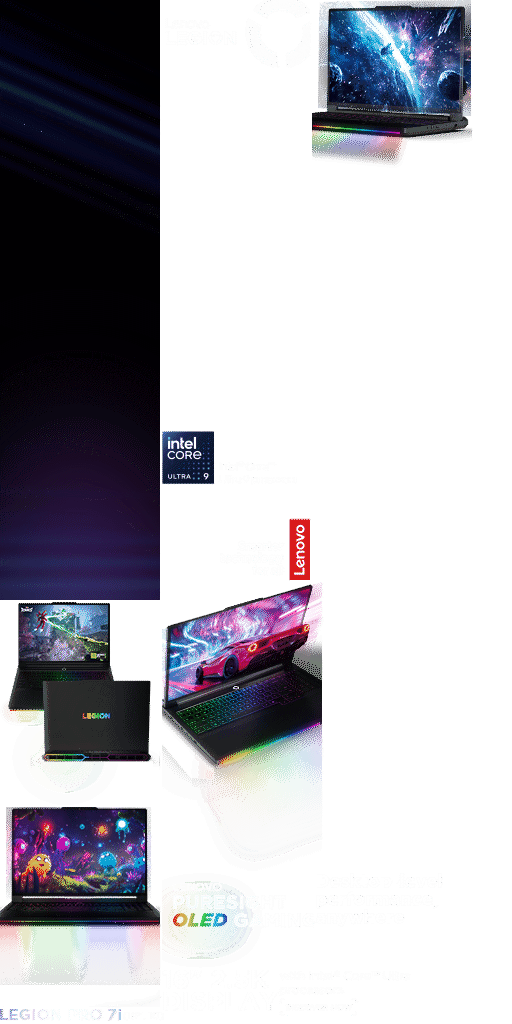
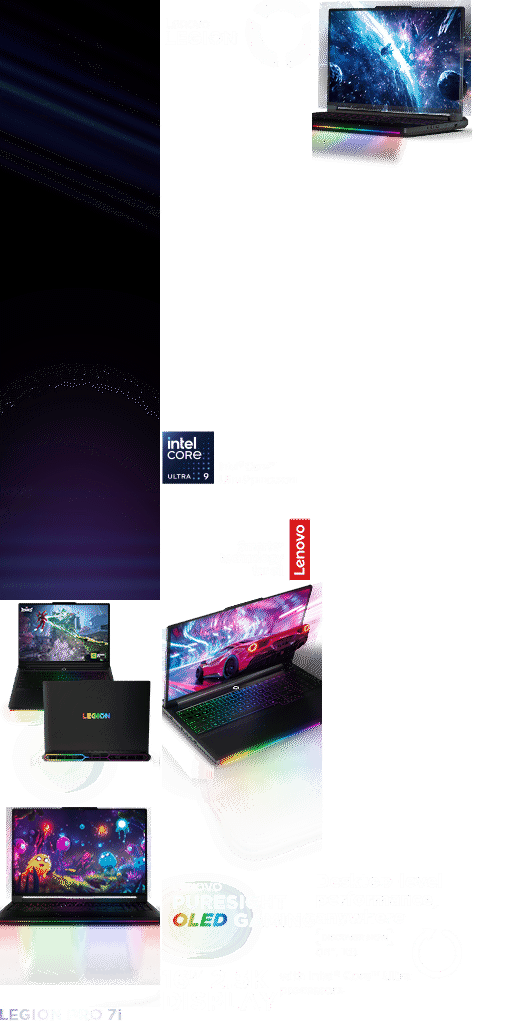
Add files via upload

diff --git a/160x600.js b/160x600.js
@@ -3,7 +3,7 @@
 var p; // shortcut to reference prototypes
 var lib={};var ss={};var img={};
 lib.ssMetadata = [
-		{name:"160x600_atlas_1", frames: [[0,0,160,600],[280,998,77,18],[162,582,160,289],[312,0,160,168],[0,807,160,200],[0,602,160,203],[162,0,148,580],[316,873,126,53],[280,970,130,26],[162,873,152,95],[162,970,116,40],[0,1009,121,11],[123,1012,41,8]]}
+		{name:"160x600_atlas_1", frames: [[412,928,50,50],[0,0,160,600],[316,928,77,18],[162,582,160,289],[312,0,160,168],[0,807,160,200],[0,602,160,203],[162,0,148,580],[316,873,126,53],[280,970,130,26],[162,873,152,95],[162,970,116,40],[0,1009,121,11],[316,948,41,8]]}
 ];
 
 
@@ -27,95 +27,118 @@ lib.ssMetadata = [
 
 
 
-(lib.BG = function() {
+(lib.arrows_w = function() {
 	this.initialize(ss["160x600_atlas_1"]);
 	this.gotoAndStop(0);
 }).prototype = p = new cjs.Sprite();
 
 
 
-(lib.CTA = function() {
+(lib.BG = function() {
 	this.initialize(ss["160x600_atlas_1"]);
 	this.gotoAndStop(1);
 }).prototype = p = new cjs.Sprite();
 
 
 
-(lib.i1 = function() {
+(lib.CTA = function() {
 	this.initialize(ss["160x600_atlas_1"]);
 	this.gotoAndStop(2);
 }).prototype = p = new cjs.Sprite();
 
 
 
-(lib.i2 = function() {
+(lib.i1 = function() {
 	this.initialize(ss["160x600_atlas_1"]);
 	this.gotoAndStop(3);
 }).prototype = p = new cjs.Sprite();
 
 
 
-(lib.i3 = function() {
+(lib.i2 = function() {
 	this.initialize(ss["160x600_atlas_1"]);
 	this.gotoAndStop(4);
 }).prototype = p = new cjs.Sprite();
 
 
 
-(lib.i4 = function() {
+(lib.i3 = function() {
 	this.initialize(ss["160x600_atlas_1"]);
 	this.gotoAndStop(5);
 }).prototype = p = new cjs.Sprite();
 
 
 
-(lib.LOGOs = function() {
+(lib.i4 = function() {
 	this.initialize(ss["160x600_atlas_1"]);
 	this.gotoAndStop(6);
 }).prototype = p = new cjs.Sprite();
 
 
 
-(lib.t11 = function() {
+(lib.LOGOs = function() {
 	this.initialize(ss["160x600_atlas_1"]);
 	this.gotoAndStop(7);
 }).prototype = p = new cjs.Sprite();
 
 
 
-(lib.t12 = function() {
+(lib.t11 = function() {
 	this.initialize(ss["160x600_atlas_1"]);
 	this.gotoAndStop(8);
 }).prototype = p = new cjs.Sprite();
 
 
 
-(lib.t2 = function() {
+(lib.t12 = function() {
 	this.initialize(ss["160x600_atlas_1"]);
 	this.gotoAndStop(9);
 }).prototype = p = new cjs.Sprite();
 
 
 
-(lib.t3 = function() {
+(lib.t2 = function() {
 	this.initialize(ss["160x600_atlas_1"]);
 	this.gotoAndStop(10);
 }).prototype = p = new cjs.Sprite();
 
 
 
-(lib.t41 = function() {
+(lib.t3 = function() {
 	this.initialize(ss["160x600_atlas_1"]);
 	this.gotoAndStop(11);
 }).prototype = p = new cjs.Sprite();
 
 
 
-(lib.t42 = function() {
+(lib.t41 = function() {
 	this.initialize(ss["160x600_atlas_1"]);
 	this.gotoAndStop(12);
 }).prototype = p = new cjs.Sprite();
 
+
+
+(lib.t42 = function() {
+	this.initialize(ss["160x600_atlas_1"]);
+	this.gotoAndStop(13);
+}).prototype = p = new cjs.Sprite();
+// helper functions:
+
+function mc_symbol_clone() {
+	var clone = this._cloneProps(new this.constructor(this.mode, this.startPosition, this.loop, this.reversed));
+	clone.gotoAndStop(this.currentFrame);
+	clone.paused = this.paused;
+	clone.framerate = this.framerate;
+	return clone;
+}
+
+function getMCSymbolPrototype(symbol, nominalBounds, frameBounds) {
+	var prototype = cjs.extend(symbol, cjs.MovieClip);
+	prototype.clone = mc_symbol_clone;
+	prototype.nominalBounds = nominalBounds;
+	prototype.frameBounds = frameBounds;
+	return prototype;
+	}
 
 
 (lib.Tween23 = function(mode,startPosition,loop,reversed) {
@@ -578,6 +601,100 @@ if (reversed == null) { reversed = false; }
 p.nominalBounds = new cjs.Rectangle(-80,-144.5,160,289);
 
 
+(lib.nutreplay = function(mode,startPosition,loop,reversed) {
+if (loop == null) { loop = true; }
+if (reversed == null) { reversed = false; }
+	var props = new Object();
+	props.mode = mode;
+	props.startPosition = startPosition;
+	props.labels = {};
+	props.loop = loop;
+	props.reversed = reversed;
+	cjs.MovieClip.apply(this,[props]);
+
+	// Layer_1
+	this.shape = new cjs.Shape();
+	this.shape.graphics.f("#0066CC").s().p("AhhBiIAAjDIDDAAIAADDg");
+	this.shape.setTransform(9.8,9.8);
+	this.shape._off = true;
+
+	this.timeline.addTween(cjs.Tween.get(this.shape).wait(3).to({_off:false},0).wait(1));
+
+	this._renderFirstFrame();
+
+}).prototype = p = new cjs.MovieClip();
+p.nominalBounds = new cjs.Rectangle(0,0,19.6,19.6);
+
+
+(lib.muitenxoay = function(mode,startPosition,loop,reversed) {
+if (loop == null) { loop = true; }
+if (reversed == null) { reversed = false; }
+	var props = new Object();
+	props.mode = mode;
+	props.startPosition = startPosition;
+	props.labels = {};
+	props.loop = loop;
+	props.reversed = reversed;
+	cjs.MovieClip.apply(this,[props]);
+
+	// Layer_1
+	this.instance = new lib.arrows_w();
+
+	this.timeline.addTween(cjs.Tween.get(this.instance).wait(1));
+
+	this._renderFirstFrame();
+
+}).prototype = getMCSymbolPrototype(lib.muitenxoay, new cjs.Rectangle(0,0,50,50), null);
+
+
+(lib.clickTag_btn = function(mode,startPosition,loop,reversed) {
+if (loop == null) { loop = true; }
+if (reversed == null) { reversed = false; }
+	var props = new Object();
+	props.mode = mode;
+	props.startPosition = startPosition;
+	props.labels = {};
+	props.loop = loop;
+	props.reversed = reversed;
+	cjs.MovieClip.apply(this,[props]);
+
+	// Layer_1
+	this.shape = new cjs.Shape();
+	this.shape.graphics.f("#A2A2A2").s().p("EgXbAu4MAAAhdvMAu3AAAMAAABdvg");
+	this.shape.setTransform(150,300);
+	this.shape._off = true;
+
+	this.timeline.addTween(cjs.Tween.get(this.shape).wait(3).to({_off:false},0).wait(1));
+
+	this._renderFirstFrame();
+
+}).prototype = p = new cjs.MovieClip();
+p.nominalBounds = new cjs.Rectangle(0,0,300,600);
+
+
+(lib.Chamuitenxoay = function(mode,startPosition,loop,reversed) {
+if (loop == null) { loop = true; }
+if (reversed == null) { reversed = false; }
+	var props = new Object();
+	props.mode = mode;
+	props.startPosition = startPosition;
+	props.labels = {};
+	props.loop = loop;
+	props.reversed = reversed;
+	cjs.MovieClip.apply(this,[props]);
+
+	// hinh_mui_ten
+	this.instance = new lib.muitenxoay();
+	this.instance.setTransform(14.55,10.25,0.31,0.31,0,0,0,25,25);
+
+	this.timeline.addTween(cjs.Tween.get(this.instance).to({rotation:-360},12).wait(1));
+
+	this._renderFirstFrame();
+
+}).prototype = p = new cjs.MovieClip();
+p.nominalBounds = new cjs.Rectangle(3.9,-0.4,21.3,21.299999999999997);
+
+
 // stage content:
 (lib._160x600 = function(mode,startPosition,loop,reversed) {
 if (loop == null) { loop = false; }
@@ -589,6 +706,107 @@ if (reversed == null) { reversed = false; }
 	props.loop = loop;
 	props.reversed = reversed;
 	cjs.MovieClip.apply(this,[props]);
+
+	this.actionFrames = [0,246];
+	// timeline functions:
+	this.frame_0 = function() {
+		this.clickTag_btn.addEventListener("click", function() {
+		    window.open(window.clickTag, "_blank");
+		});
+	}
+	this.frame_246 = function() {
+		this.mc_mui_ten_xoay.stop();
+		
+		
+		
+		/* Mouse Over Event
+		Mousing over the symbol instance executes a function in which you can add your own custom code.
+		
+		Instructions:
+		1. Add your custom code on a new line after the line that says "// Start your custom code" below.
+		The code will execute when the symbol instance is moused over.
+		frequency is the number of the times event should be triggered.
+		*/
+		var frequency = 5;
+		stage.enableMouseOver(frequency);
+		this.btn_replay.addEventListener("mouseover", fl_MouseOverHandler.bind(this));
+		
+		function fl_MouseOverHandler()
+		{
+			// Start your custom code
+			// This example code displays the words "Moused over" in the Output panel.
+			this.mc_mui_ten_xoay.play();
+			// End your custom code
+		}
+		
+		
+		
+		/* Mouse Out Event
+		Mousing out of the symbol instance executes a function in which you can add your own custom code.
+		
+		Instructions:
+		1. Add your custom code on a new line after the line that says "// Start your custom code" below.
+		The code will execute when the symbol instance is moused out of.
+		*/
+		var frequency = 5;
+		stage.enableMouseOver(frequency);
+		this.btn_replay.addEventListener("mouseout", fl_MouseOutHandler_4.bind(this));
+		
+		function fl_MouseOutHandler_4()
+		{
+			// Start your custom code
+			// This example code displays the words "Moused out" in the Output panel.
+			this.mc_mui_ten_xoay.gotoAndStop(0);
+			// End your custom code
+		}
+		
+		/* Mouse Click Event
+		Clicking on the specified symbol instance executes a function in which you can add your own custom code.
+		
+		Instructions:
+		1. Add your custom code on a new line after the line that says "// Start your custom code" below.
+		The code will execute when the symbol instance is clicked.
+		*/
+		
+		this.btn_replay.addEventListener("click", fl_MouseClickHandler.bind(this));
+		
+		function fl_MouseClickHandler()
+		{
+			globalThis.notRedirect=true;
+			// Start your custom code
+			// This example code displays the words "Mouse clicked" in the Output panel.
+			this.gotoAndPlay(0);
+			// End your custom code
+		}
+	}
+
+	// actions tween:
+	this.timeline.addTween(cjs.Tween.get(this).call(this.frame_0).wait(246).call(this.frame_246).wait(27));
+
+	// nut_replay
+	this.btn_replay = new lib.nutreplay();
+	this.btn_replay.name = "btn_replay";
+	this.btn_replay.setTransform(9.8,9.8,1,1,0,0,0,9.8,9.8);
+	this.btn_replay._off = true;
+	new cjs.ButtonHelper(this.btn_replay, 0, 1, 2, false, new lib.nutreplay(), 3);
+
+	this.timeline.addTween(cjs.Tween.get(this.btn_replay).wait(241).to({_off:false},0).wait(32));
+
+	// mui_ten
+	this.mc_mui_ten_xoay = new lib.Chamuitenxoay();
+	this.mc_mui_ten_xoay.name = "mc_mui_ten_xoay";
+	this.mc_mui_ten_xoay.setTransform(7.8,-7.8,1,1,0,0,0,14.6,10.2);
+	this.mc_mui_ten_xoay._off = true;
+
+	this.timeline.addTween(cjs.Tween.get(this.mc_mui_ten_xoay).wait(238).to({_off:false},0).to({y:7.7},9,cjs.Ease.quintInOut).wait(26));
+
+	// clickTag_btn
+	this.clickTag_btn = new lib.clickTag_btn();
+	this.clickTag_btn.name = "clickTag_btn";
+	this.clickTag_btn.setTransform(80,301.45,0.5333,1,0,0,0,150,300);
+	new cjs.ButtonHelper(this.clickTag_btn, 0, 1, 2, false, new lib.clickTag_btn(), 3);
+
+	this.timeline.addTween(cjs.Tween.get(this.clickTag_btn).wait(273));
 
 	// CTA
 	this.instance = new lib.Tween22("synched",0);
@@ -734,7 +952,7 @@ if (reversed == null) { reversed = false; }
 	this._renderFirstFrame();
 
 }).prototype = p = new lib.AnMovieClip();
-p.nominalBounds = new cjs.Rectangle(80,300,80,301);
+p.nominalBounds = new cjs.Rectangle(80,284.5,80,317);
 // library properties:
 lib.properties = {
 	id: '16C905587F9C3C4EB2F13A4D644EE53C',
@@ -744,7 +962,7 @@ lib.properties = {
 	color: "#FFFFFF",
 	opacity: 1.00,
 	manifest: [
-		{src:"images/160x600_atlas_1.png?1755059753910", id:"160x600_atlas_1"}
+		{src:"images/160x600_atlas_1.png", id:"160x600_atlas_1"}
 	],
 	preloads: []
 };

diff --git a/index.html b/index.html
@@ -38,7 +38,6 @@ function openAds(){
 		if(globalThis.notRedirect){globalThis.notRedirect=false;return};
     window.open(clickTag);
 }
-
 function handleComplete(evt,comp) {
 	//This function is always called, irrespective of the content. You can use the variable "stage" after it is created in token create_stage.
 	var lib=comp.getLibrary();
